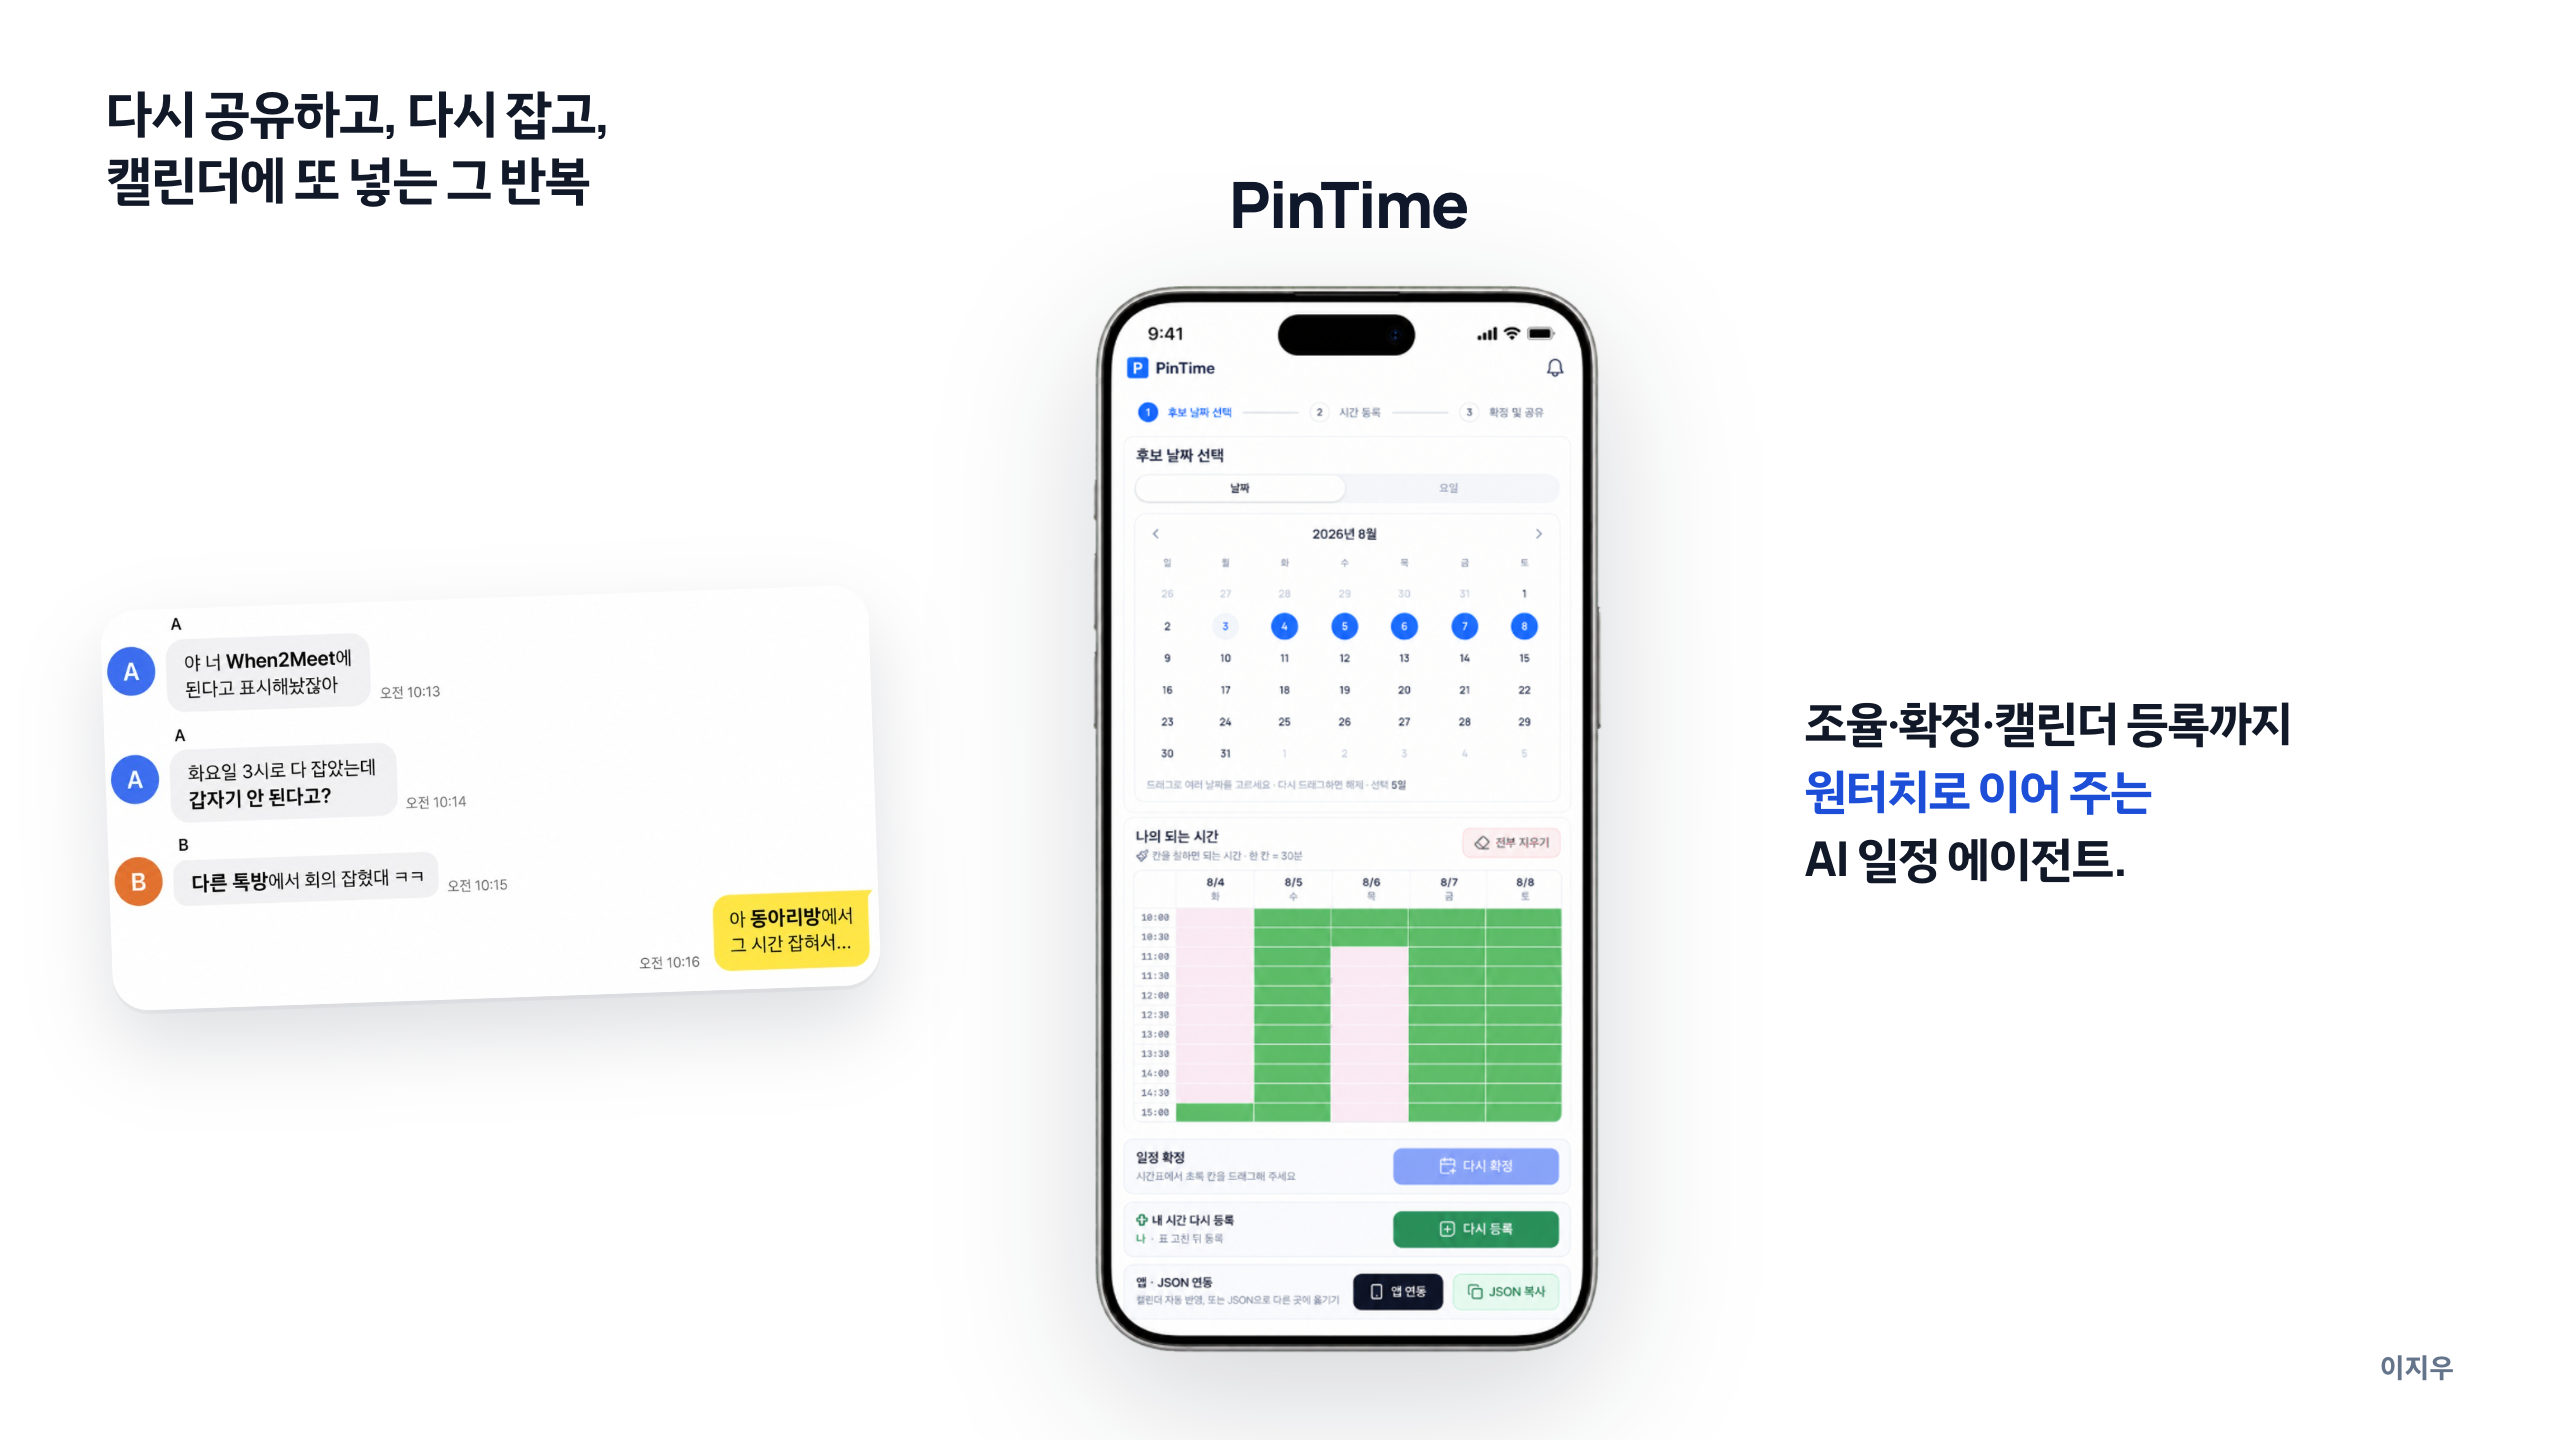
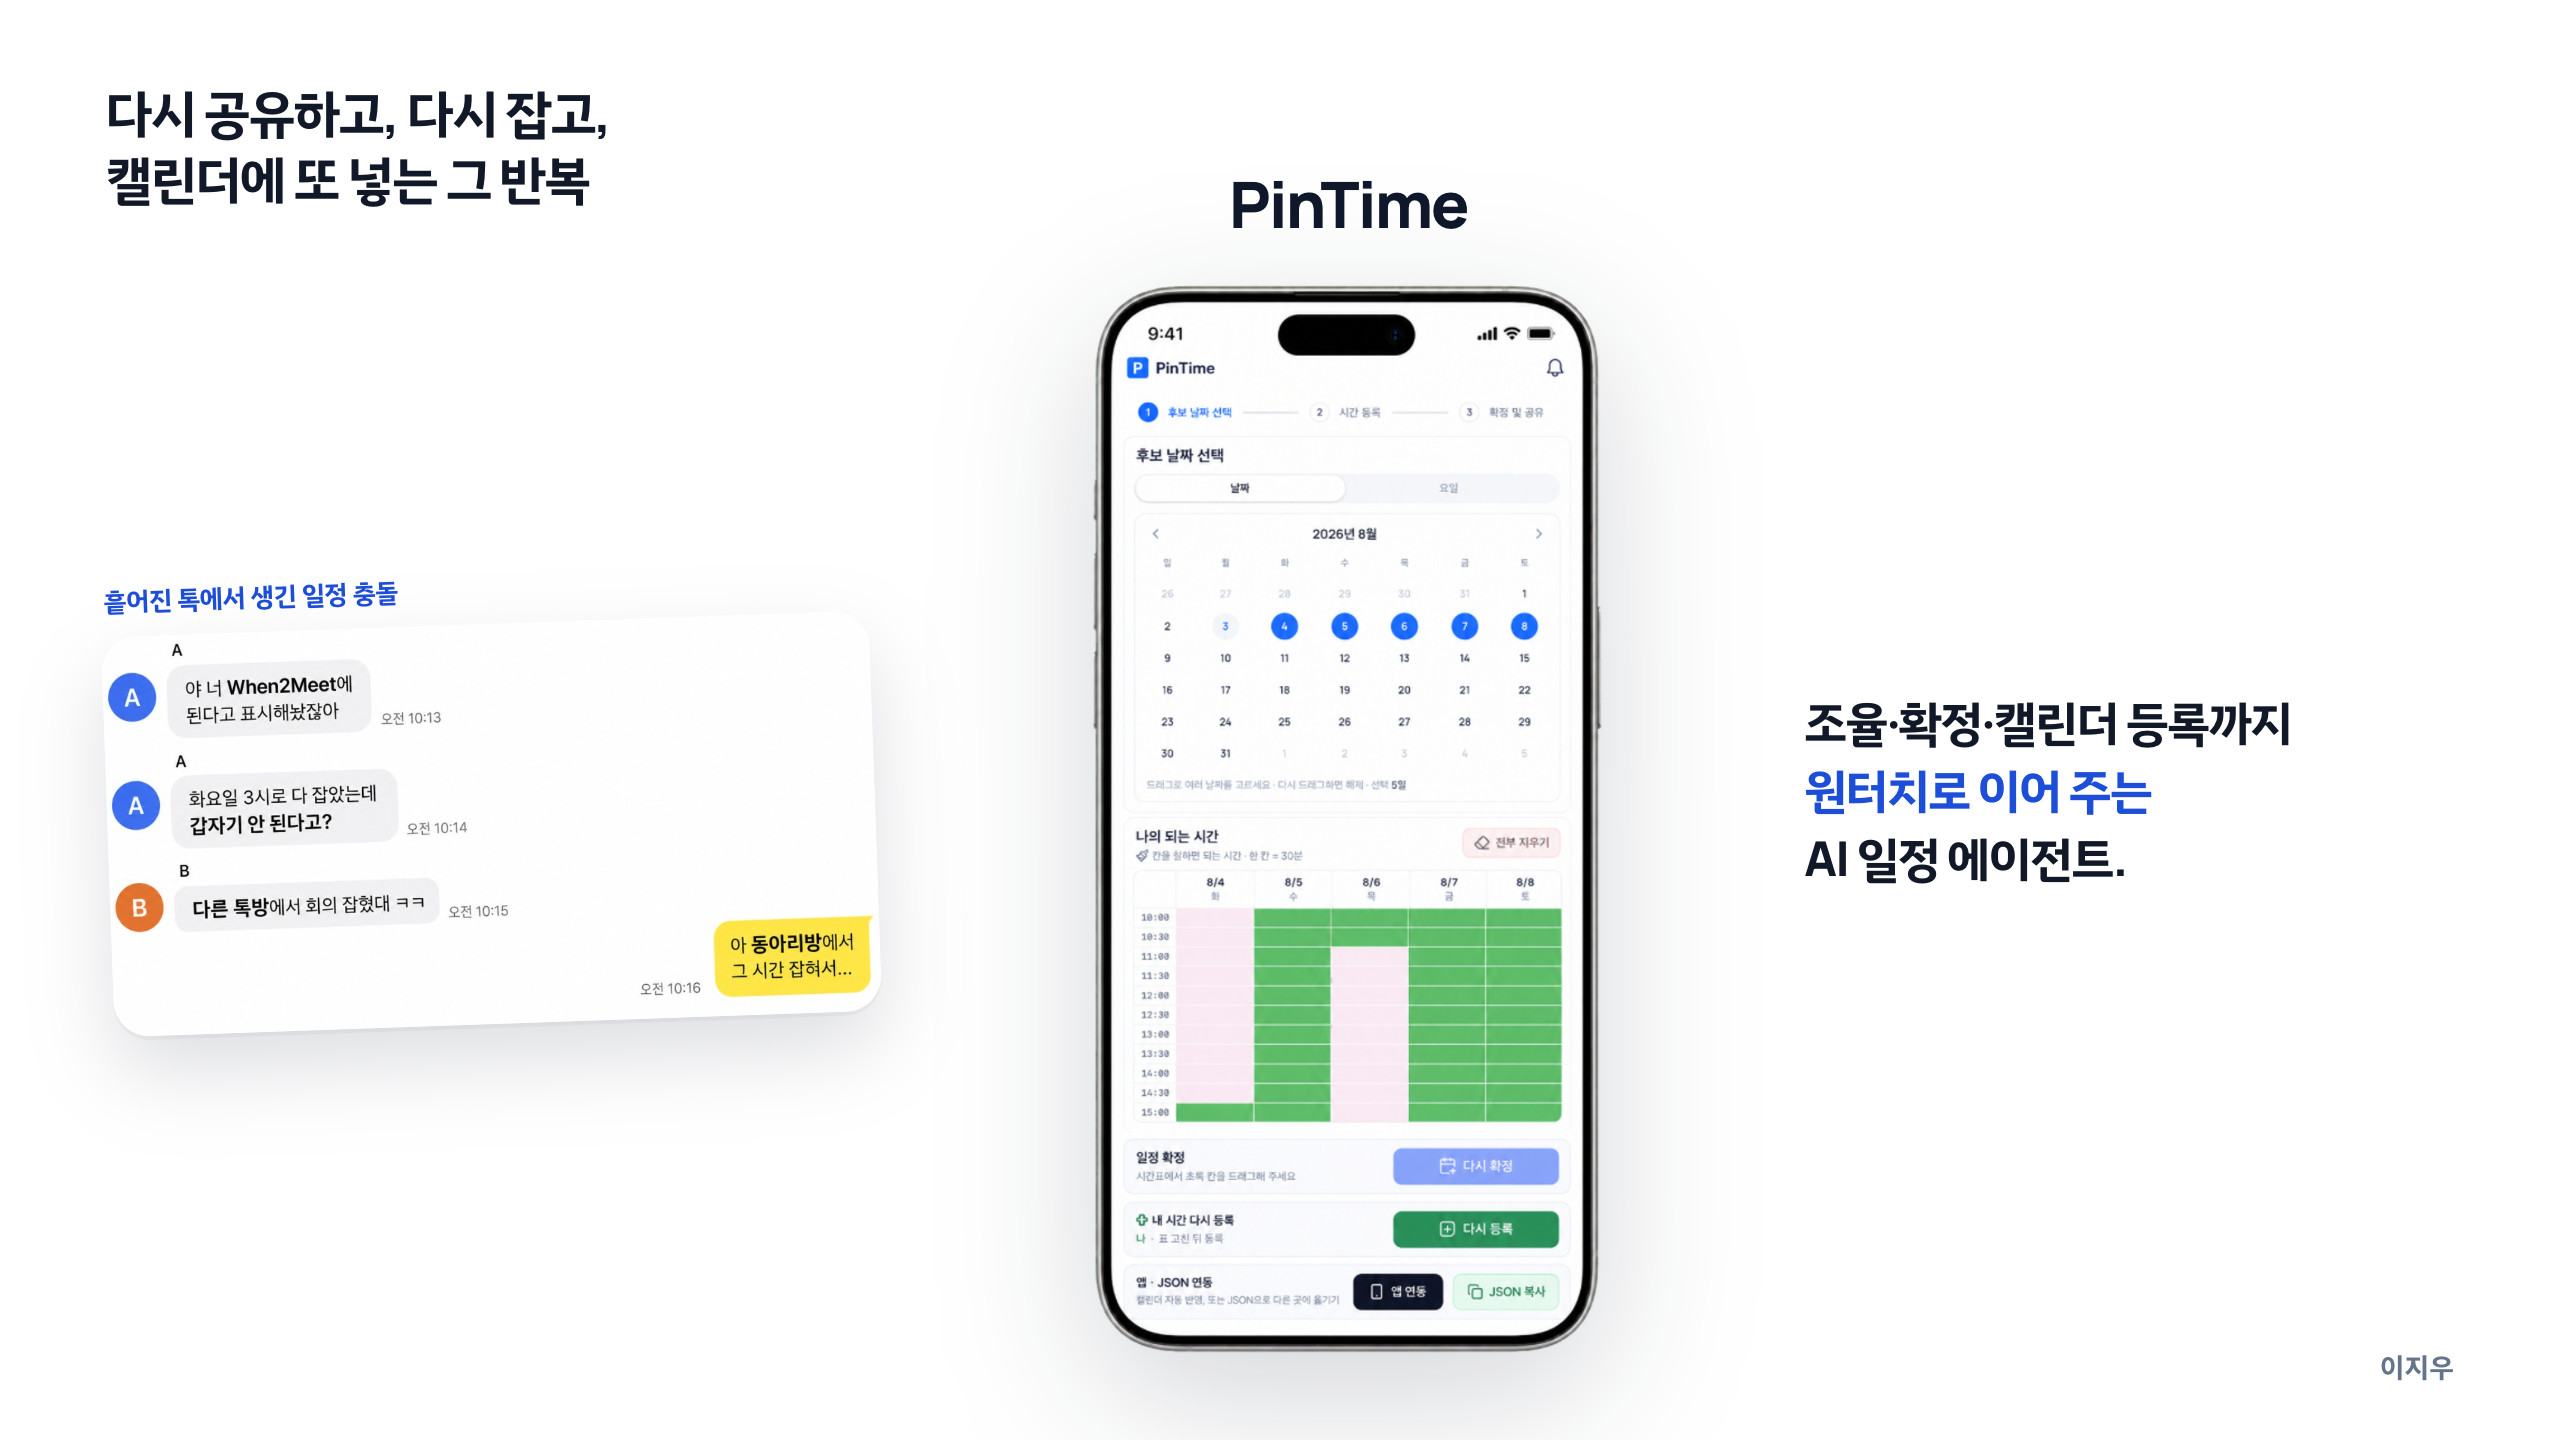
Restore blue chat label above cover left image.

Changed region(s): [[0.0625, 0.5938, 0.3438, 0.7188], [0.0312, 0.5312, 0.1562, 0.6562], [0.0312, 0.4062, 0.1562, 0.5]]

diff --git a/public/pitch.html b/public/pitch.html
@@ -1144,11 +1144,26 @@
         margin-top: 6px;
       }
 
-      .cover-chat {
+      .cover-chat-wrap {
         justify-self: stretch;
         width: 100%;
         max-width: 4in;
+        display: flex;
+        flex-direction: column;
+        gap: 8px;
         transform: rotate(-2deg) translateY(8px);
+      }
+
+      .cover-chat-wrap .chat-label {
+        font-size: 13px;
+        font-weight: 800;
+        color: var(--blue);
+        letter-spacing: -0.02em;
+        padding-left: 2px;
+      }
+
+      .cover-chat {
+        width: 100%;
         border-radius: 18px;
         overflow: hidden;
         box-shadow:
@@ -2158,11 +2173,14 @@
           </h1>
 
           <div class="cover-stage">
-            <div class="cover-chat">
-              <img
-                src="/pitch-shots/kakao-conflict.png"
-                alt="일정 충돌이 난 카카오톡 대화"
-              />
+            <div class="cover-chat-wrap">
+              <div class="chat-label">흩어진 톡에서 생긴 일정 충돌</div>
+              <div class="cover-chat">
+                <img
+                  src="/pitch-shots/kakao-conflict.png"
+                  alt="일정 충돌이 난 카카오톡 대화"
+                />
+              </div>
             </div>
 
             <div class="cover-phone-col">
